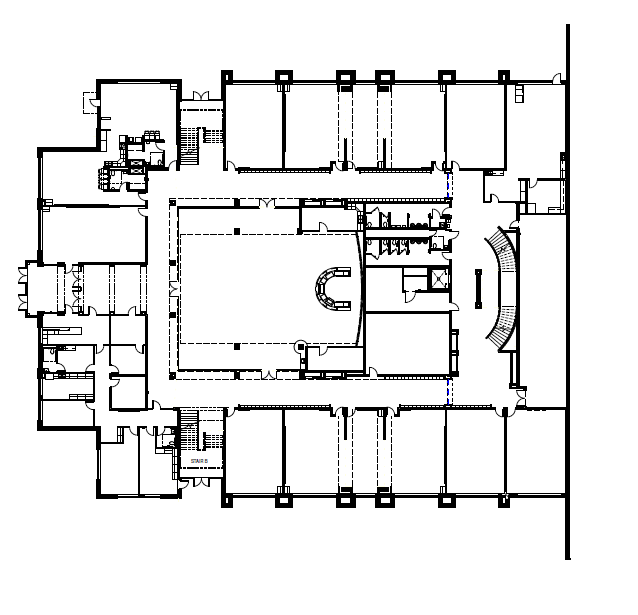
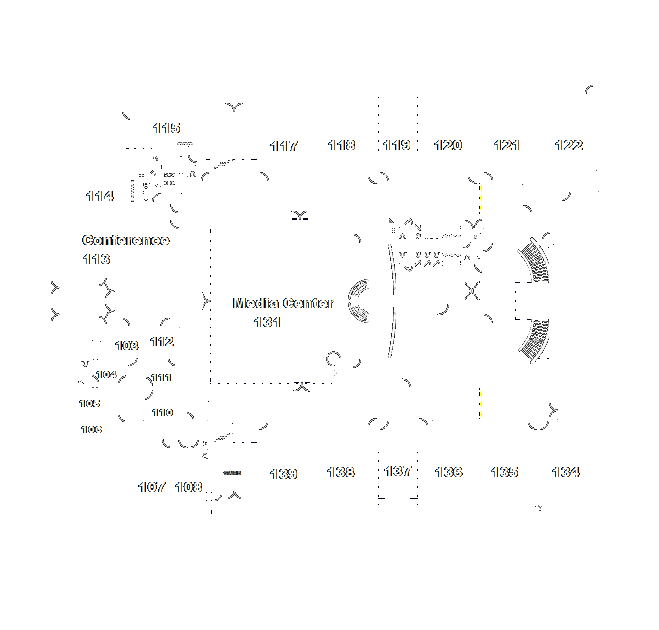
fixed maps with room numbers

Changed region(s): [[0.0298, 0.0309, 0.8934, 0.9268], [0.3574, 0.3707, 0.3871, 0.4016]]

diff --git a/FloorThree.htm b/FloorThree.htm
@@ -11,7 +11,7 @@
     <h1>School Map</h1>
     <h3>Floor Three</h3>
     <p><a href="FloorOne.htm"><button>1st Floor</button></a> <a href="HomeSecondFloor.htm"><button>2nd Floor</button></a></p>
-    <div id="firstFloorDiv"><center><img id="img_ID"  src="3rdFloorTransWhite.png" alt="placeholder" usemap="#image-map"></center></div>
+    <div id="firstFloorDiv"><center><img id="img_ID"  src="ThirdFloor.png" alt="placeholder" usemap="#image-map"></center></div>
     <br/>
     <br/>
     <div id="logoDiv"><center><img src="logo.png" alt="logo"></center></div>

diff --git a/HomeSecondFloor.htm b/HomeSecondFloor.htm
@@ -10,7 +10,7 @@
     <h1>School Map</h1>
     <h3>Floor Two</h3>
     <p><a href="FloorOne.htm"><button>1st Floor</button></a> <a href="FloorThree.htm"><button>3rd Floor</button></a></p>    
-    <div id="firstFloorDiv"><center><img id="img_ID"  src="2ndFloorTransWhite.png" alt="placeholder" usemap="#image-map"></center></div>
+    <div id="firstFloorDiv"><center><img id="img_ID"  src="SecondFloor.png" alt="placeholder" usemap="#image-map"></center></div>
     <br/>
     <br/>
     <div id="logoDiv"><center><img src="logo.png" alt="logo"></center></div>

diff --git a/FloorOne.htm b/FloorOne.htm
@@ -11,7 +11,7 @@
     <h1>School Map</h1>
     <h3>Floor One</h3>
     <p><a href="HomeSecondFloor.htm"><button>2nd Floor</button></a> <a href="FloorThree.htm"><button>3rd Floor</button></a></p>
-    <div id="firstFloorDiv"><center><img id="img_ID"  src="transFirstFloor.png" alt="placeholder" usemap="#image-map"></center></div>
+    <div id="firstFloorDiv"><center><img id="img_ID"  src="FirstFloor.png" alt="placeholder" usemap="#image-map"></center></div>
     <br/>
     <br/>
     <div id="logoDiv"><center><img src="logo.png" alt="logo"></center></div>

diff --git a/DirectoryCss.css b/DirectoryCss.css
@@ -55,8 +55,8 @@ button {
 }
 
 #firstFloorDiv img {
-    height: 35%;
-    width: 80%;
+    height: 40%;
+    width: 95%;
 }
 #logoDiv img {
     height: 30%;
